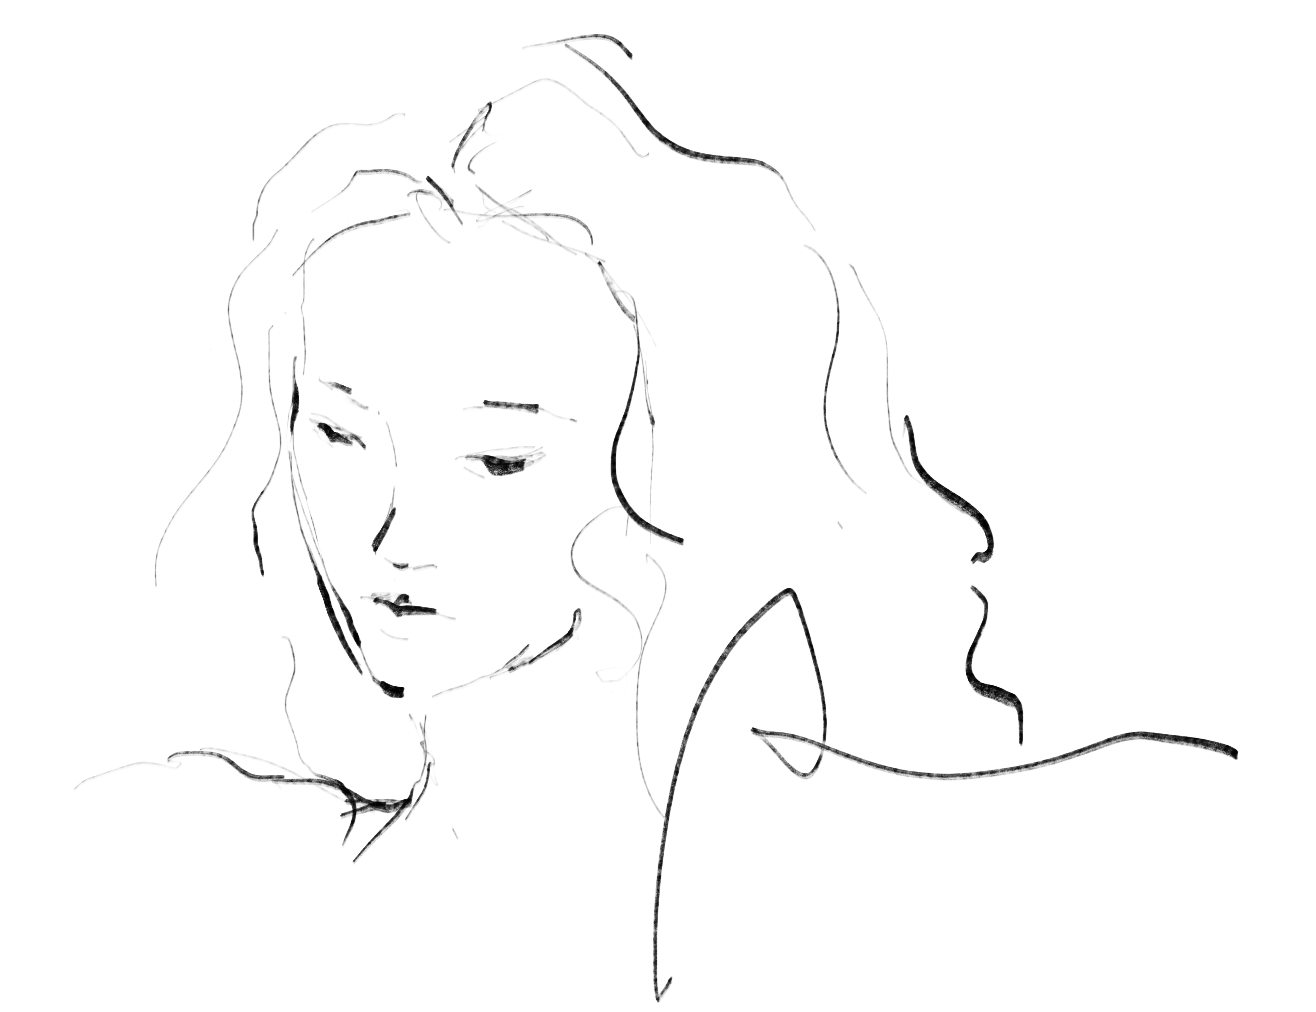
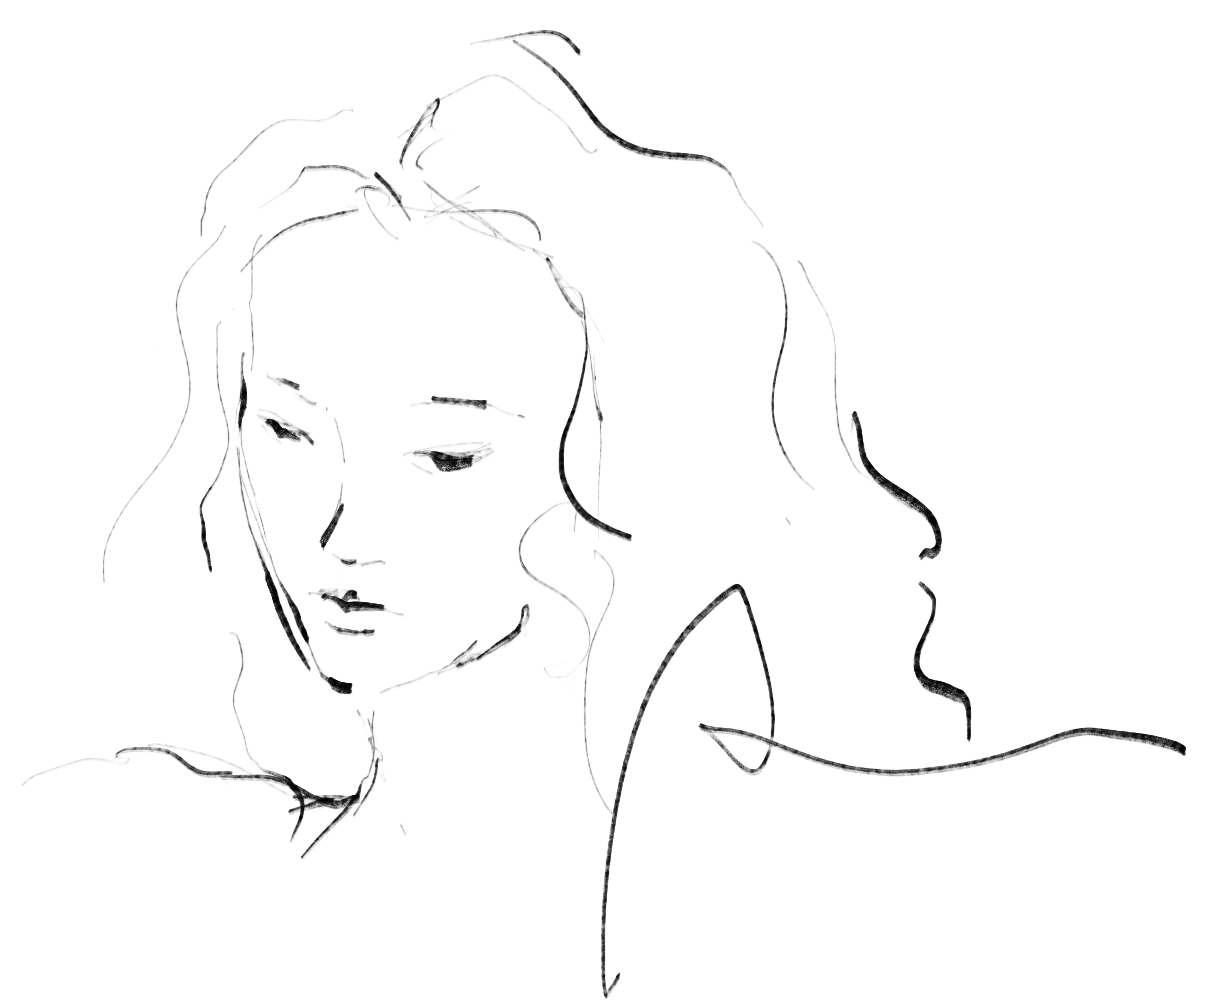
polishing

diff --git a/src/sections/About.jsx b/src/sections/About.jsx
@@ -14,9 +14,10 @@ In my free hours, I mostly zoom out, sometimes play the piano, paint and take ph
     <section className="about-section">
   <div className="about-container">
     <div className="about-image">
-      <img src="/img/portrait-1.png" alt="Althea Portrait" className="portrait-img" />
+      {/* <img src="/img/portrait-1.png" alt="Althea Portrait" className="portrait-img" />
       <p className="portrait-caption MainColorSubtext">My Portrait by Yuke</p>
-      <p className="portrait-caption MainColorSubtext">Oil on Canvas</p>
+      <p className="portrait-caption MainColorSubtext">Oil on Canvas</p> */}
+      <img src="/img/my-pic-1.png" alt="Althea Portrait" className="portrait-img" />
     </div>
 
 

diff --git a/src/styles/landing.scss b/src/styles/landing.scss
@@ -22,10 +22,10 @@
     inset: 0;
     img {
       // width: 68%;
-      // height: 92%;
       // top: 4%;
-      // left: 4%;
-      // position: absolute;
+      height: 100%;
+      left: 8%;
+      position: absolute;
       object-fit: cover;   // ✅ fills container while keeping aspect ratio
       object-position: center;
     }
@@ -53,6 +53,14 @@
       margin: 0;
     }
   }
+  @media (max-width: 1180px) {
+    .landing-bg {
+      img {
+        left: 0%;
+      }
+    }
+  }
+
   @media (max-width: 1024px) {
     .landing-bg {
       img {

diff --git a/src/sections/Landing.jsx b/src/sections/Landing.jsx
@@ -48,7 +48,8 @@ function Landing() {
         <div className="landing-bg">
 
           <img
-            src="/img/self-portrait.PNG"
+            // src="/img/self-portrait-0.png"
+            src="/img/self-portrait-1.PNG"
             alt="Self portrait"
           />
         </div>
